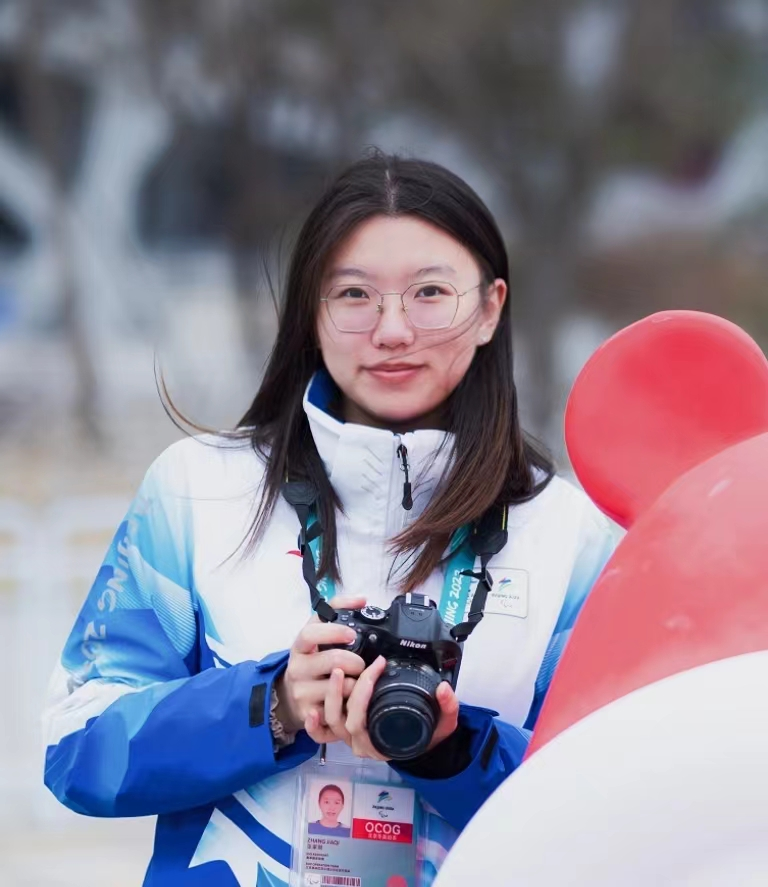
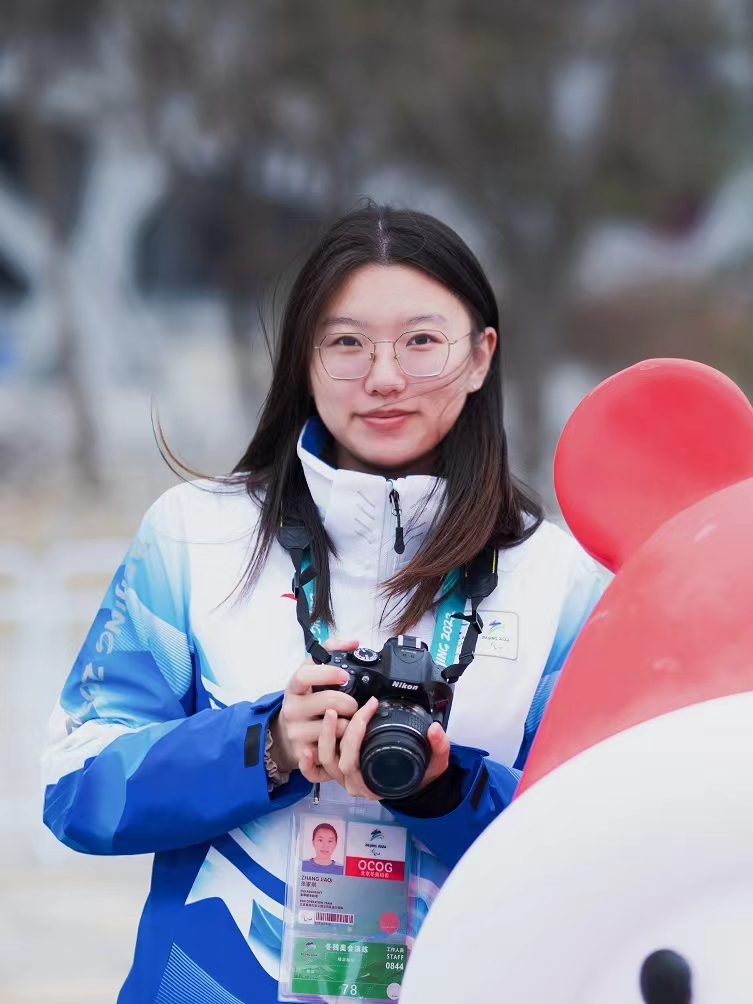
img Update

diff --git a/style.css b/style.css
@@ -263,7 +263,7 @@ nav ul li a:hover::after{
 
 .about-col-1{
     flex-basis: 40%;
-    /* overflow: hidden; */
+    overflow: hidden;
 }
 
 .about-col-1.about-details{
@@ -289,13 +289,14 @@ nav ul li a:hover::after{
 .about-img{
     width: 100%;
     border: 1.5px solid;
-}
-
-/* .about-img.about-page{
-    height: 400px;
+    height: 620px;
     object-fit: cover;
     object-position: 50% 35%;
-} */
+}
+
+.about-img.img2{
+    object-position: 50% 60%;
+}
 
 .tab-titles{
     display: flex;

diff --git a/pages/about.html b/pages/about.html
@@ -26,7 +26,7 @@
         <div class="container contents no-bot-pad">
             <div class="row">
                 <div class="about-col-1">
-                    <img src="/images/me2.jpg" class="about-img">
+                    <img src="/images/me2.jpg" class="about-img img2">
                 </div>
                 <div class="about-col-2">
                     <h1 class="title">Hello!<br>I'm Jiaqi.</h1>
